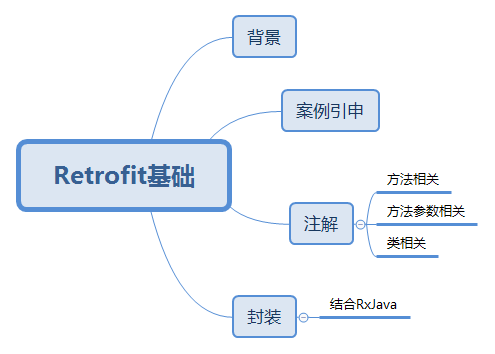
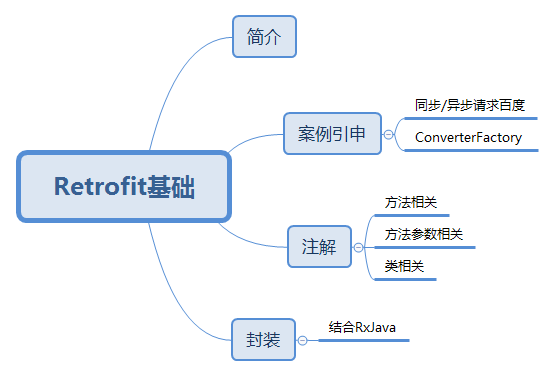
add 自定义转化器     注解字段

diff --git a/app/src/main/java/com/sunnyday/noteretrofit/retrofitservices/BaiDuServices.kt b/app/src/main/java/com/sunnyday/noteretrofit/retrofitservices/BaiDuServices.kt
@@ -4,6 +4,7 @@ import com.sunnyday.noteretrofit.WangZheModel
 import okhttp3.ResponseBody
 import retrofit2.Call
 import retrofit2.http.GET
+import retrofit2.http.HTTP
 
 /**
  * Create by SunnyDay on 20:49 2022/01/25
@@ -17,14 +18,20 @@ interface BaiDuServices {
     fun getDataFromBaiDu(): Call<ResponseBody>
 
     /**
-     * 定义接口，期望返回String数据
+     * 定义请求百度网页的接口，期望返回String数据
      * */
     @GET("/")
     fun sendHttp2BaiDu(): Call<String>
 
     /**
-     * 定义接口，期望返回String数据.
+     * 定义接口，期望返回指定的Model类型数据.
      * */
     @GET("/OkHttp/TestListJson.json")
     fun getWangZheData(): Call<WangZheModel>
+
+    /**
+     * 使用@HTTP来替换@GET
+     * */
+    @HTTP(method = "GET",path = "/OkHttp/TestListJson.json")
+    fun getWangZheDataTest(): Call<WangZheModel>
 }

diff --git a/app/src/main/java/com/sunnyday/noteretrofit/MainActivity.kt b/app/src/main/java/com/sunnyday/noteretrofit/MainActivity.kt
@@ -117,7 +117,7 @@ class MainActivity : AppCompatActivity() {
      * 使用提供的GsonConverterFactory 直接获取实体类。
      * */
     private fun useGsonConverterFactory() {
-        val baseUrl = "http://192.168.2.107:8080"
+        val baseUrl = "http://192.168.2.112:8080"
         val retrofit = Retrofit.Builder()
             .baseUrl(baseUrl)
             .addConverterFactory(GsonConverterFactory.create())

diff --git a/README.md b/README.md
@@ -82,7 +82,7 @@ log：
 
 ###### 如何进行同步请求？
 
-> 很简单使用Call对象的execute方法。
+> 很简单使用Call对象的execute方法即可。
 
 ```java
     /**
@@ -111,31 +111,9 @@ log：
 
 ###### > 和oKhttp混合使用，可能导包有点迷惑。
 
-- Call的导包：Call 为retrifit 库的包
+- Call的导包：Call 为retrifit 库的包。
 - Call泛型值：未添加addConverterFactory时泛型值默认为okhttp3.ResponseBody类型
-- CallBack：call#enqueue时使用的callBack也是retrofit库中的。
-
-```java
-//ResponseBody 为Okhttp3库的包
-import okhttp3.ResponseBody
-// Call 为retrifit 库的包
-import retrofit2.Call
-import retrofit2.http.GET
-
-/**
- * Create by SunnyDay on 20:49 2022/01/25
- */
-interface BaiDuServices {
-    /**
-     * 请求百度网页的接口
-     *参考： https://blog.csdn.net/a77979744/article/details/67913738
-     * */
-    @GET("/")
-    fun getDataFromBaiDu(): Call<ResponseBody>
-}
-```
-
-
+- Callback：call#enqueue时使用的callback也是retrofit库中的。
 
 ###### 小疑惑：定义接口时可以在Call< T >传任意类型吗？
 
@@ -143,19 +121,10 @@ interface BaiDuServices {
 >
 > 未添加时默认为okhttp3.ResponseBody类型，使用其他类则报错，如传个String。
 
-###### 自定义ConverterFactory 直接获取Sting类型返回值
-
 ```java
 interface BaiDuServices {
     /**
-     * 请求百度网页的接口
-     *参考： https://blog.csdn.net/a77979744/article/details/67913738
-     * */
-    @GET("/")
-    fun getDataFromBaiDu(): Call<ResponseBody>
-
-    /**
-     * 定义接口，期望返回String数据
+     * 定义接口，期望Response#body()返回String数据
      * */
     @GET("/")
     fun sendHttp2BaiDu(): Call<String>
@@ -216,17 +185,108 @@ interface BaiDuServices {
 implementation 'com.squareup.retrofit2:converter-gson:2.0.2'
 ```
 
+```java
+   /**
+     * 使用提供的GsonConverterFactory 直接获取实体类。
+     * */
+    private fun useGsonConverterFactory() {
+        val baseUrl = "http://192.168.2.112:8080"
+        val retrofit = Retrofit.Builder()
+            .baseUrl(baseUrl)
+            .addConverterFactory(GsonConverterFactory.create())
+            .build()
+        val baiDuServices = retrofit.create(BaiDuServices::class.java)
+        val call = baiDuServices.getWangZheData()
+        call.enqueue(object : Callback<WangZheModel> {
+            override fun onFailure(call: Call<WangZheModel>, t: Throwable) {
+                Log.i(TAG, "请求失败！")
+                t.printStackTrace()
+            }
 
+            override fun onResponse(call: Call<WangZheModel>, response: Response<WangZheModel>) {
+               Log.i(TAG,"onResponse:${response.body()}")
+            }
+        })
+    }
+// log:
+MainActivity: onResponse:WangZheModel(categoryId=0, categoryName=打野, name=李白)
+```
 
 # 注解
 
+```java
+/**
+ * Create by SunnyDay on 20:49 2022/01/25
+ */
+interface BaiDuServices {
+    /**
+     * 请求百度网页的接口
+     *参考： https://blog.csdn.net/a77979744/article/details/67913738
+     * */
+    @GET("/")
+    fun getDataFromBaiDu(): Call<ResponseBody>
+
+    /**
+     * 定义请求百度网页的接口，期望返回String数据
+     * */
+    @GET("/")
+    fun sendHttp2BaiDu(): Call<String>
+
+    /**
+     * 定义接口，期望返回指定的Model类型数据.
+     * */
+    @GET("/OkHttp/TestListJson.json")
+    fun getWangZheData(): Call<WangZheModel>
+}
+```
 
 
-# 封装
 
+回顾下请求的接口，其实Retrofit 是基于注解的请求框架，框架提供和很多注解字段来供我们使用。其中根据作用的可以大致分为三类：
 
+- 方法相关：注解作用于方法上，如上的@GET
+- 方法参数相关：注解作用于方法的参数上，一般用于url的path、Parmas 拼接。
+- 类相关：作用于类上。
+
+###### 概览
+
+| 方法注解 | 简介                                      |
+| -------- | ----------------------------------------- |
+| @GET     | 对应HTTP的get请求。标记为get请求。        |
+| @POST    | 对应HTTP的post请求。标记为post请求。      |
+| @PUT     | 对应HTTP的put请求。标记为put请求。        |
+| @DELETE  | 对应HTTP的delete请求。标记为delete请求。  |
+| @PATH    | 对应HTTP的path请求。标记为path请求。      |
+| @HEAD    | 对应HTTP的head请求。标记为head请求。      |
+| @OPTION  | 对应HTTP的option请求。标记为option请求。  |
+| @HTTP    | 可扩展字段，可以替换上述7种Http请求方法。 |
+
+###### 方法注解
+
+@GET
+
+@POST
+
+@HTTP
+
+```java
+
+   /**
+     * 定义接口，期望返回指定的Model类型数据.
+     * */
+    @GET("/OkHttp/TestListJson.json")
+    fun getWangZheData(): Call<WangZheModel>
+
+    /**
+     * 使用@HTTP来替换@GET
+     * */
+    @HTTP(method = "GET",path = "/OkHttp/TestListJson.json")
+    fun getWangZheDataTest(): Call<WangZheModel>
+```
 
 待续~
+
+# 封装
 
 参考：
 
